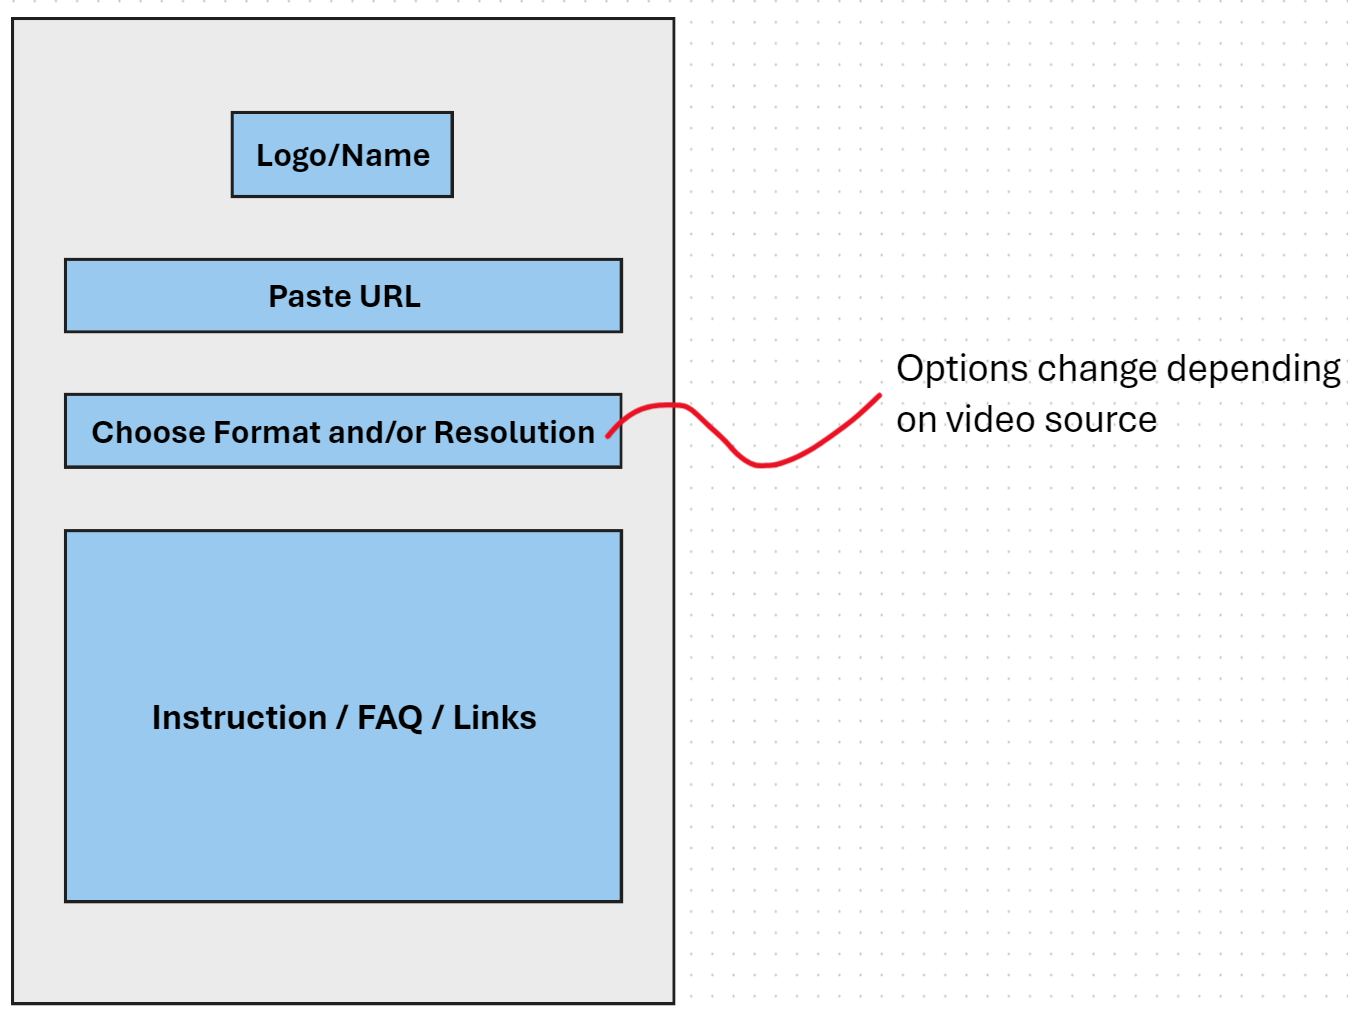
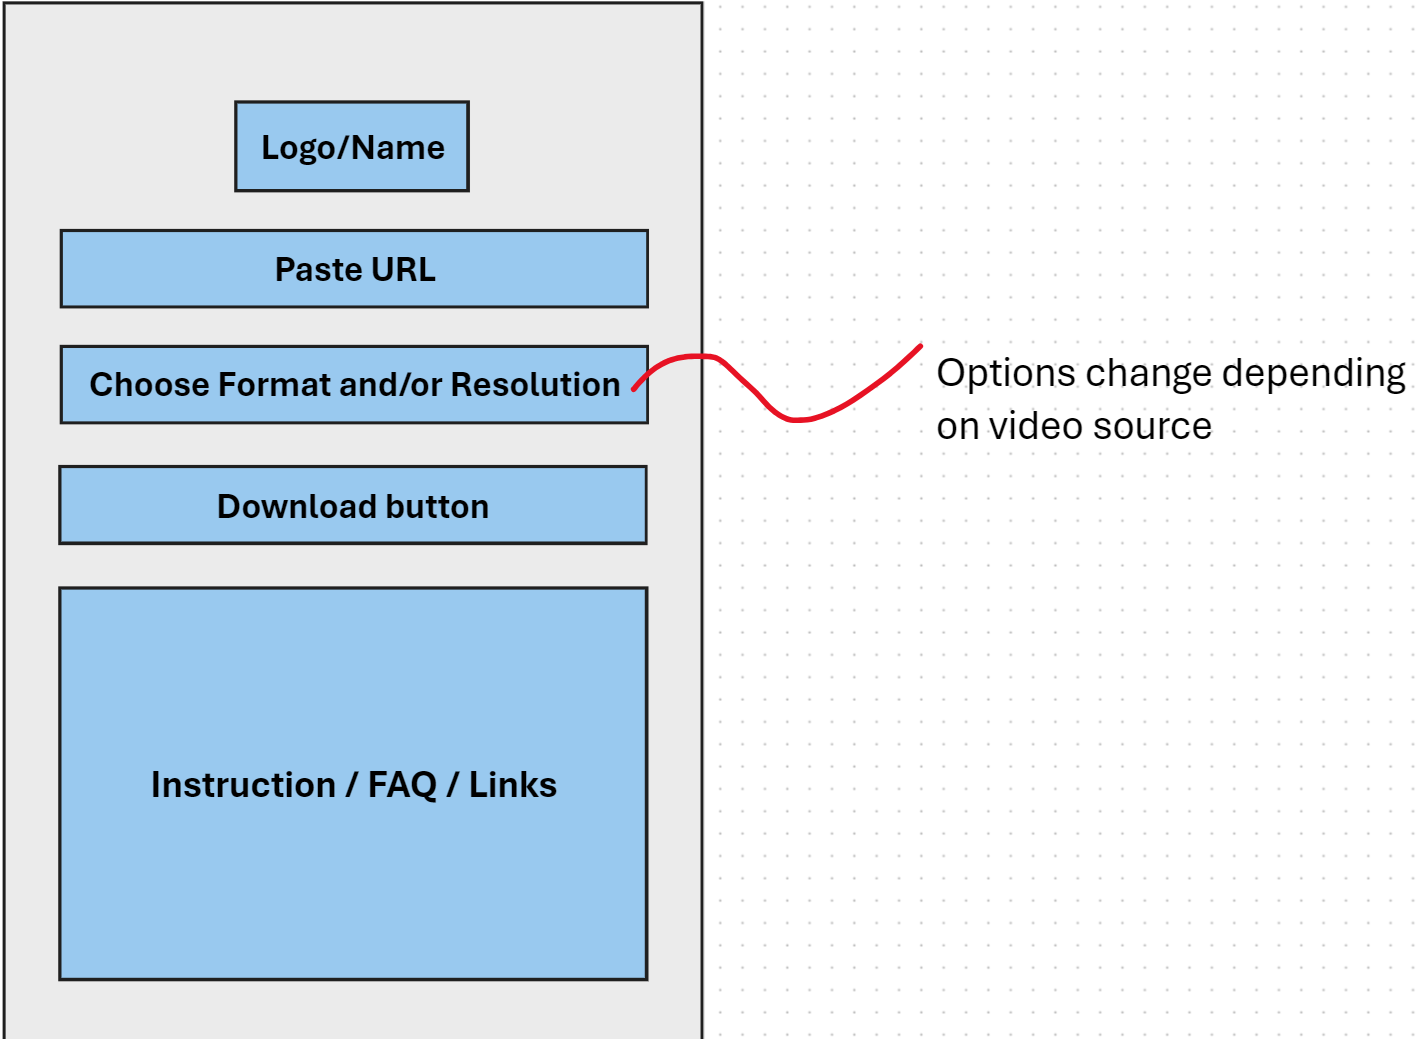
adding scratch kivy app

diff --git a/testApp/kivy_app.py b/testApp/kivy_app.py
@@ -1,0 +1,64 @@
+# AI generated scratch
+
+from kivy.app import App
+from kivy.uix.boxlayout import BoxLayout
+from kivy.uix.label import Label
+from kivy.uix.button import Button
+from kivy.uix.textinput import TextInput
+from kivy.uix.spinner import Spinner
+
+class CustomApp(BoxLayout):
+    def __init__(self, **kwargs):
+        super(CustomApp, self).__init__(**kwargs)
+        self.orientation = 'vertical'
+        self.padding = 20
+        self.spacing = 10
+
+        # Logo/Name area
+        self.logo = Label(
+            text='Logo/Name',
+            size_hint=(1, 0.1),
+            color=(0, 0, 0, 1),
+            bold=True
+        )
+        self.add_widget(self.logo)
+
+        # Paste URL field
+        self.url_input = TextInput(
+            hint_text='Paste URL',
+            size_hint=(1, 0.1),
+            multiline=False
+        )
+        self.add_widget(self.url_input)
+
+        # Choose Format/Resolution dropdown (Spinner)
+        self.format_spinner = Spinner(
+            text='Choose Format and/or Resolution',
+            values=('720p', '1080p', '4K', 'MP4', 'MP3'),
+            size_hint=(1, 0.1)
+        )
+        self.add_widget(self.format_spinner)
+
+        # Download button
+        self.download_button = Button(
+            text='Download',
+            size_hint=(1, 0.1)
+        )
+        self.add_widget(self.download_button)
+
+        # Instructions / FAQ / Links area
+        self.info_box = Label(
+            text='Instruction / FAQ / Links',
+            size_hint=(1, 0.5),
+            halign='center',
+            valign='middle'
+        )
+        self.info_box.bind(size=self.info_box.setter('text_size'))  # Ensures text wraps inside the box
+        self.add_widget(self.info_box)
+
+class MyApp(App):
+    def build(self):
+        return CustomApp()
+
+if __name__ == '__main__':
+    MyApp().run()

diff --git a/README.md b/README.md
@@ -1,6 +1,9 @@
 # EpicDownloader
 Universal app for downloading all sorts of videos
 
+# Tech Stuff
+Python Kivy ?? or build in Java ?? or in Java & Python ??
+
 ## Potential Downloads:
 - Youtube - Download mp4 or mp3
 - Insta - Download mp4
